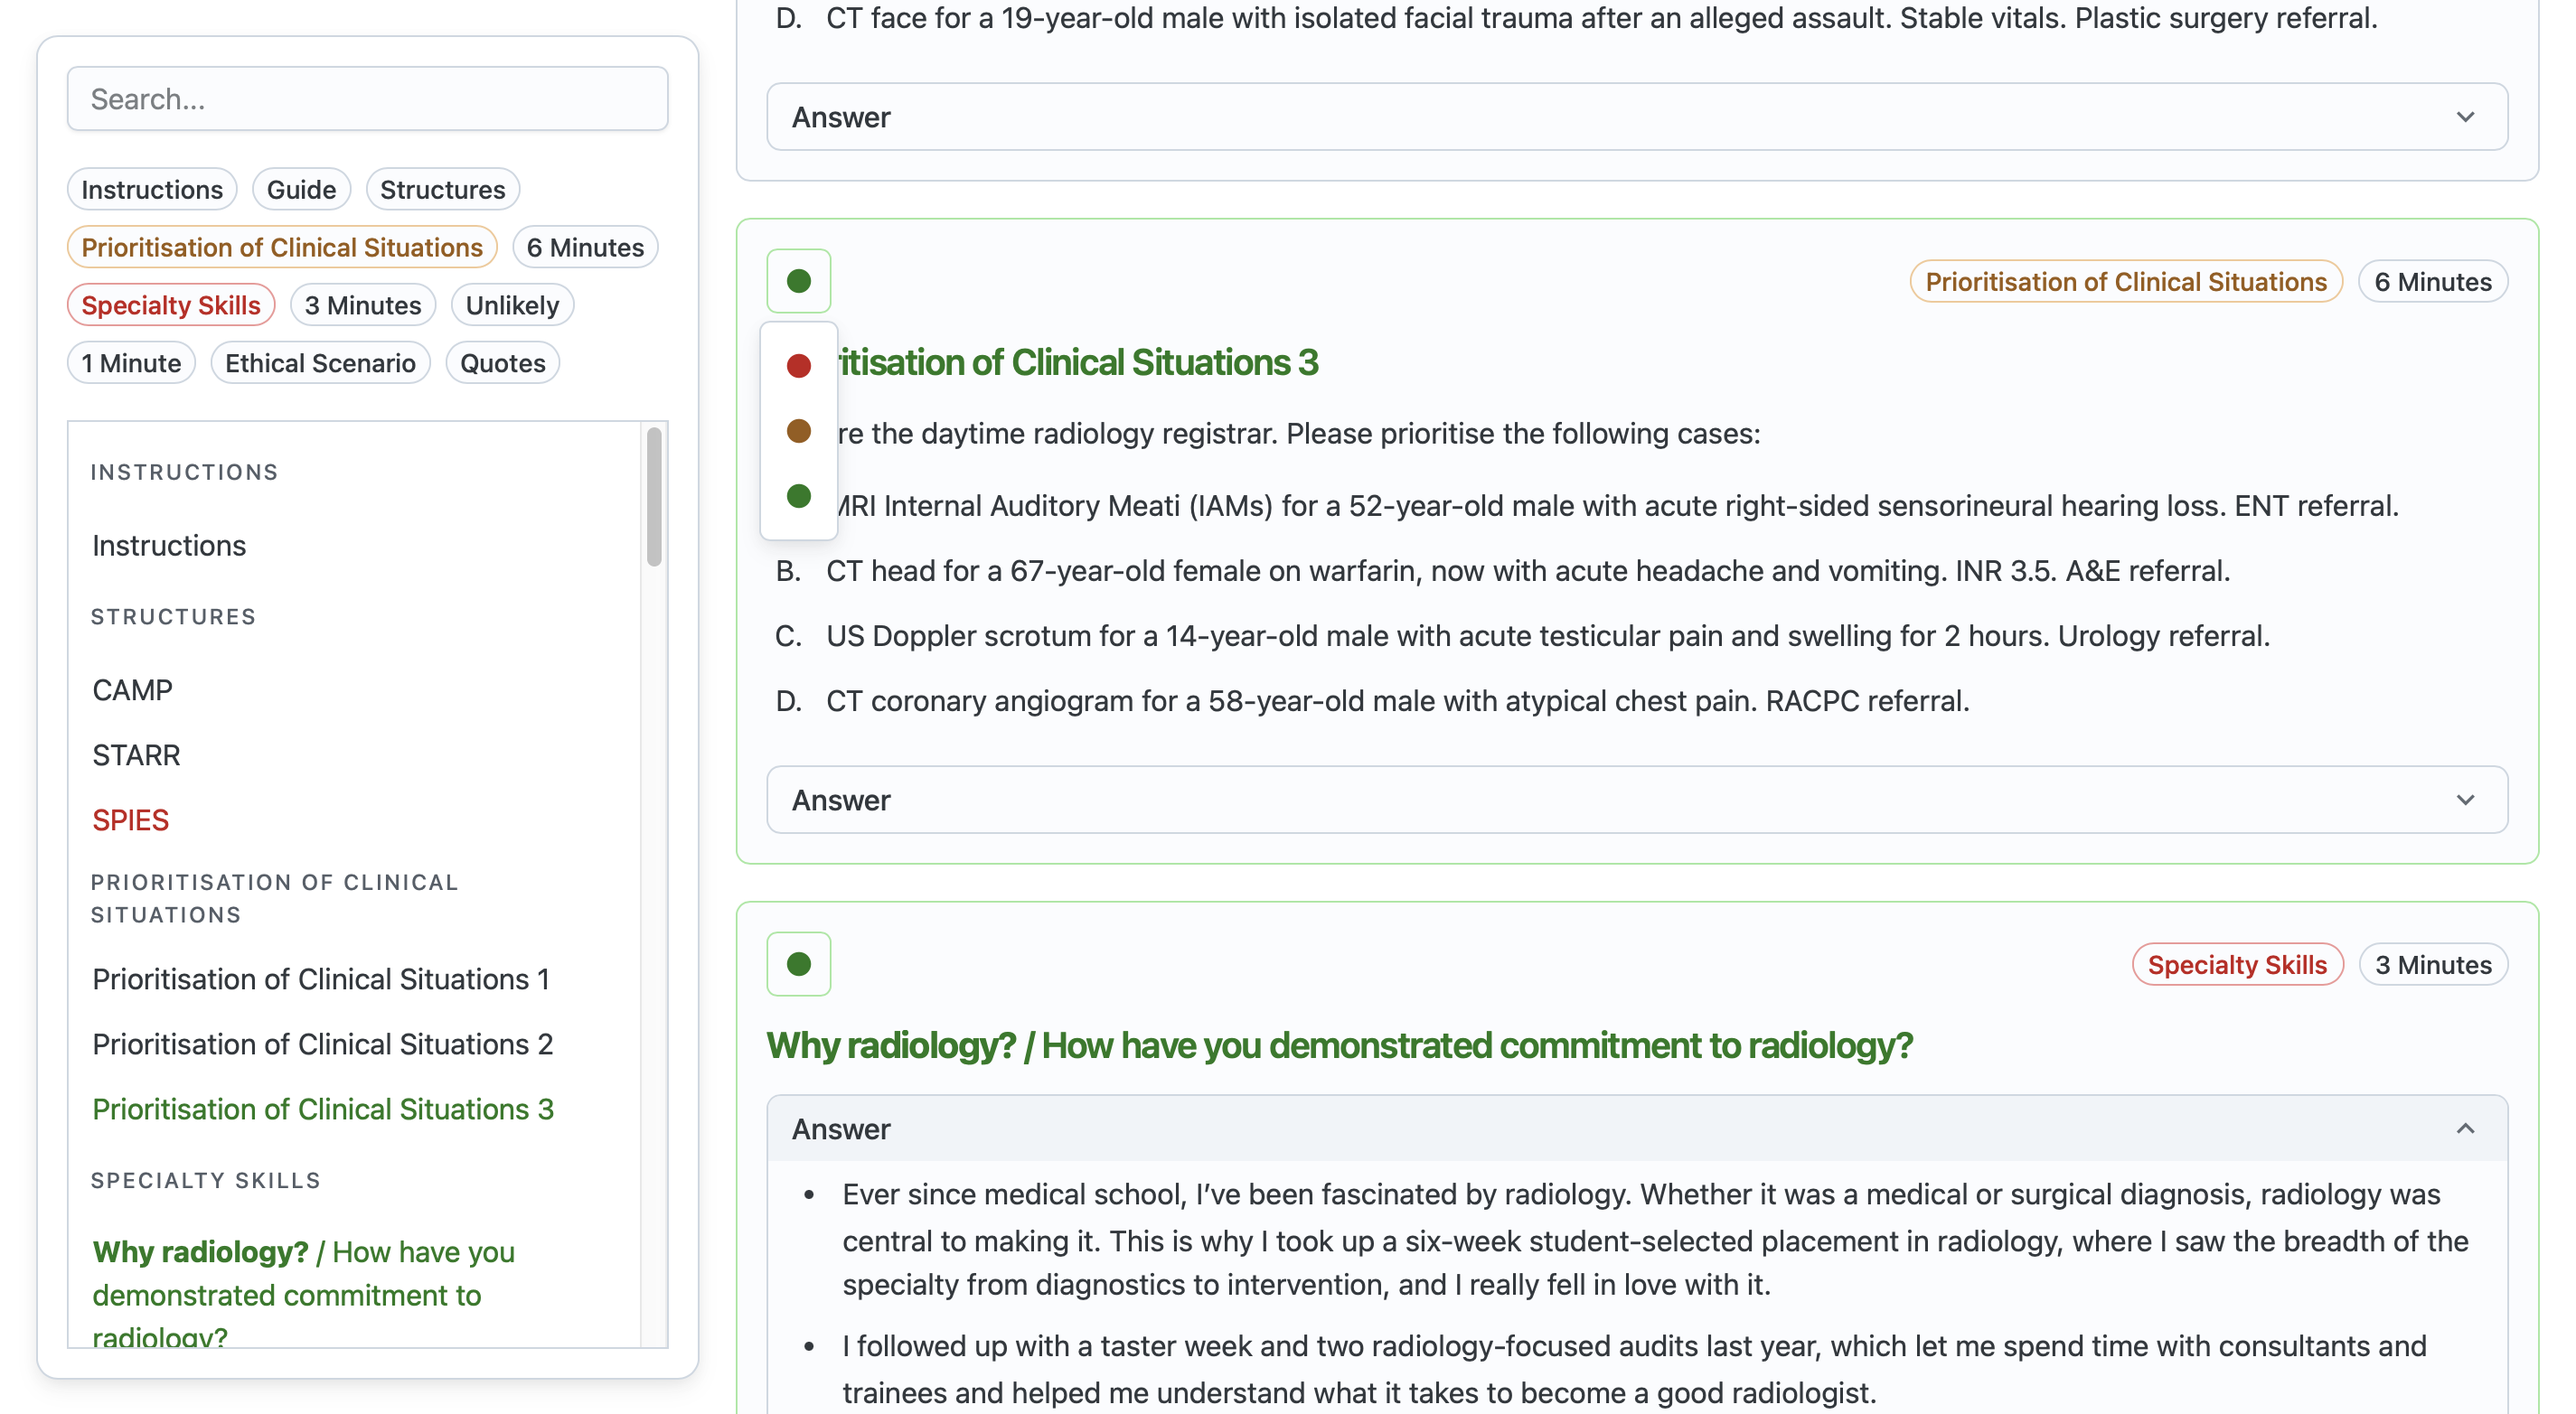
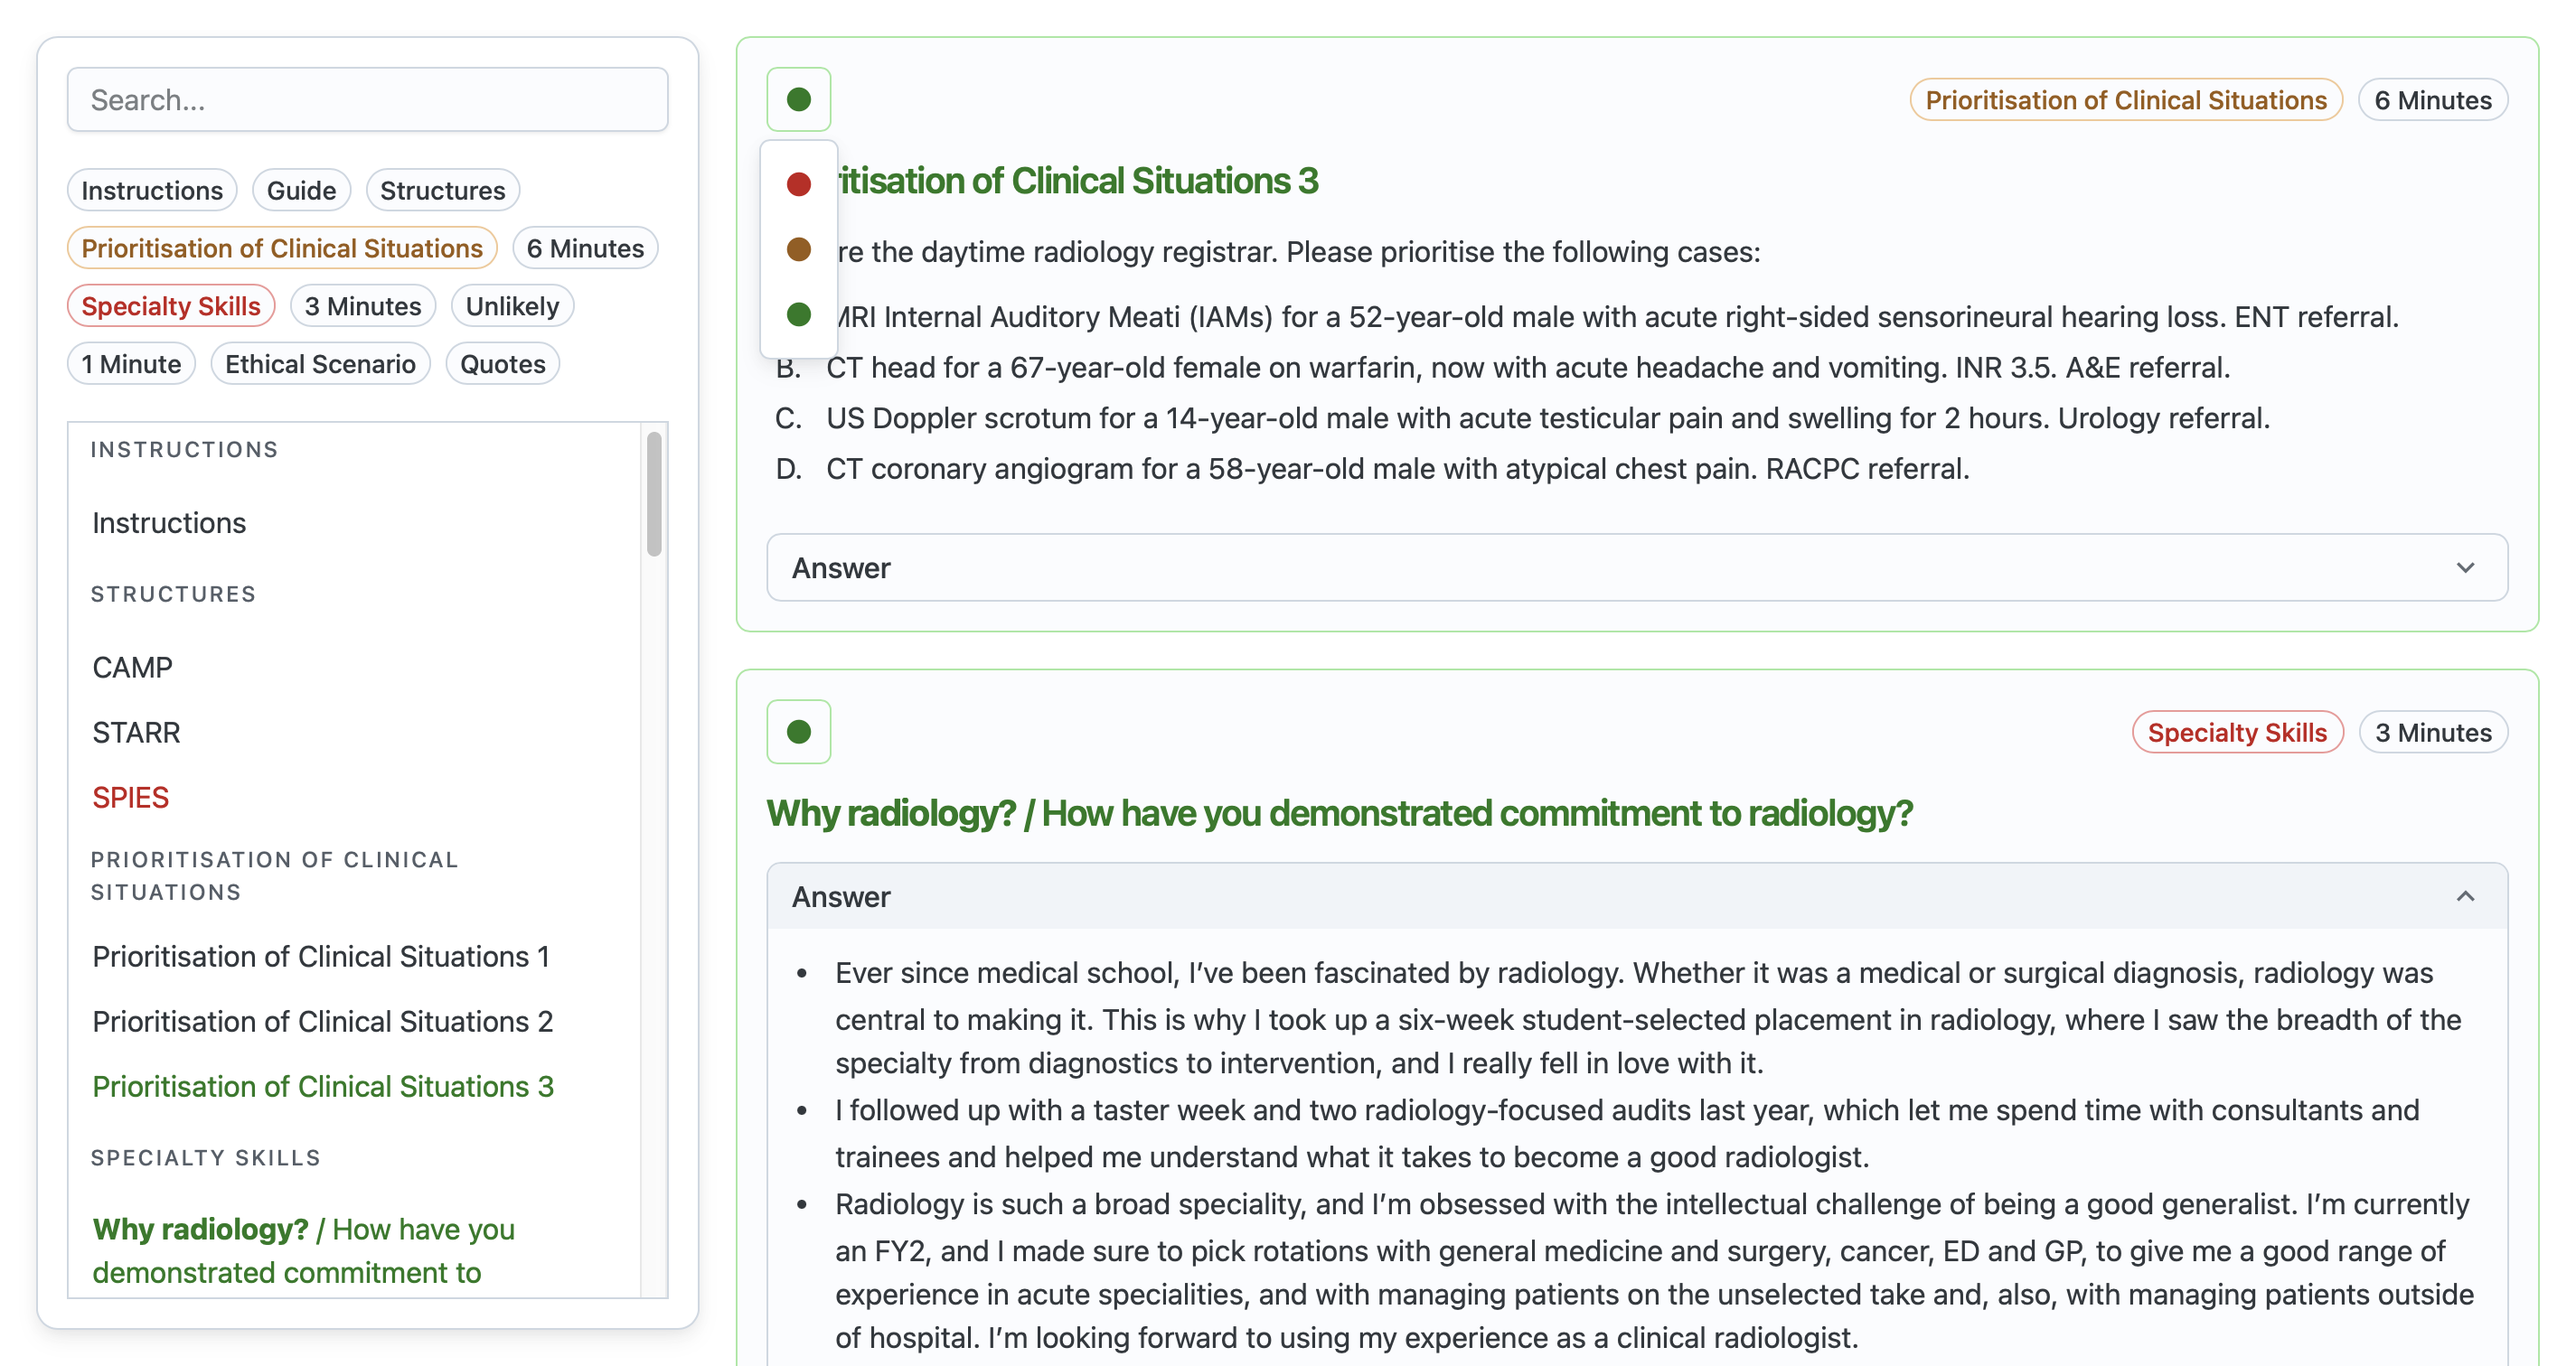
ui fixes

diff --git a/src/pages/Landing.tsx b/src/pages/Landing.tsx
@@ -1,5 +1,5 @@
 import React, { FC, useEffect } from "react";
-import { Button, Typography, Card, Link, List, Dropdown, MenuButton, IconButton, Menu, MenuItem, ListItem, Alert } from '@mui/joy';
+import { Button, Typography, Card, Link, List, Dropdown, MenuButton, IconButton, Menu, MenuItem, ListItem } from '@mui/joy';
 import './Landing.css';
 import { useNavigate } from "react-router-dom";
 import Paths from "../resources/Paths.ts";
@@ -7,7 +7,7 @@ import useDocumentTitle from "../hooks/useDocumentTitle.ts";
 import Strings from "../resources/Strings.ts";
 import Logo from "../components/Logo.tsx";
 import { AuthenticationUI, AuthenticationUIMode, useAuthentication } from "../components/Authentication.tsx";
-import { MdArrowDownward, MdArrowForward, MdMoreVert } from "react-icons/md";
+import { MdArrowDownward, MdArrowForward, MdChecklist, MdCurrencyPound, MdMoreVert, MdQuestionAnswer } from "react-icons/md";
 import Footer from "../components/Footer.tsx";
 import ExampleQuestions from "../components/ExampleQuestions.tsx";
 
@@ -313,20 +313,19 @@ const Landing: FC<LandingProps> = ({ setNav, authenticationUIMode }) => {
             </List>
         </Card>
         <Card className={sections[4]} variant='outlined'>
-            <Typography level='h2' color='success'>{sectionTitles[sections[4]]}</Typography>
-            <Typography>
+            <div>
+                <Typography level='h2' color='success'>{sectionTitles[sections[4]]}</Typography>
                 <Typography level='title-md'>Unlock Your Radiology Interview Success! 🔓</Typography>
-                <br />
-                <Typography>Subscribe now for access to the tools you need to stand out from the competition! 🌟</Typography>
-            </Typography>
-            <img alt='Question Bank Screenshot' src={require('../resources/question-bank.png')} />
-            <List>
-                <ListItem>✅ 50+ Expertly Crafted Answers</ListItem>
-                <ListItem>✅ Prioritisation Questions to Sharpen Your Skills</ListItem>
-                <ListItem>✅ Unbeatable Value: Just £18 for 3 Months! 🎉</ListItem>
-            </List>
-            <Button color='success' sx={{ width: 'fit-content' }} endDecorator={<MdArrowForward />} onClick={() => navigate(Paths.SignUp)}>{authentication.isLoggedIn ? 'Access' : 'Sign Up for'} the Question Bank</Button>
-            {!authentication.isLoggedIn && <Typography>Or <Link onClick={() => navigate(Paths.SignIn)}>{Strings.SignIn}</Link></Typography>}
+                <img alt='Question Bank Screenshot' src={require('../resources/question-bank.png')} />
+                <Typography><MdQuestionAnswer /> 50+ Expertly Crafted Answers</Typography>
+                <Typography><MdChecklist /> Prioritisation Questions to Sharpen Your Skills</Typography>
+                <Typography><MdCurrencyPound /> Unbeatable Value: Just £18 for 3 Months! 🎉</Typography>
+                <Button color='success' sx={{ width: 'fit-content' }} endDecorator={<MdArrowForward />} onClick={() => navigate(Paths.SignUp)}>{authentication.isLoggedIn ? 'Access' : 'Sign Up for'} the Question Bank</Button>
+                {!authentication.isLoggedIn && <Typography>Or <Link onClick={() => navigate(Paths.SignIn)}>{Strings.SignIn}</Link></Typography>}
+            </div>
+            <div>
+                <img alt='Question Bank Screenshot' src={require('../resources/question-bank.png')} />
+            </div>
         </Card>
         <Footer />
         {

diff --git a/src/pages/Landing.css b/src/pages/Landing.css
@@ -76,26 +76,63 @@
 }
 
 .landing>.structure .MuiList-root,
-.landing>.structure .MuiListItem-root,
+.landing>.structure .MuiListItem-root {
+    margin-top: -.5em; /*-.25em*/
+}
+
 .landing>.method .MuiList-root,
 .landing>.method .MuiListItem-root {
     margin-top: -.5em;
 }
 
+@media screen and (min-width: 868px) {
+    .landing>.question-bank {
+        flex-direction: row;
+        align-items: center;
+        gap: 5em;
+    }
+}
+
 .landing>.question-bank img {
-    --img-padding: var(--padding-sm);
-    margin: var(--img-padding) auto;
-    object-fit: contain;
+    background-color: white;
     border-radius: var(--joy-radius-md);
     box-shadow: var(--joy-shadow-md);
-    width: calc(100% - 2 * var(--img-padding));
-    max-width: 868px;
     text-align: center;
     box-sizing: border-box;
+    max-width: 100%;
+}
+
+.landing>.question-bank>div:first-child {
+    display: flex;
+    flex-direction: column;
+    gap: var(--padding);
+}
+
+.landing>.question-bank>div:first-child>img {
+    display: block;
+    max-width: 75%;
+    margin: var(--padding) auto;
 }
 
 @media screen and (min-width: 868px) {
-    .landing>.question-bank img {
-        --img-padding: var(--padding);
+    .landing>.question-bank>div:first-child>img {
+        display: none;
+    }
+}
+
+.landing>.question-bank>div:first-child>p {
+    display: flex;
+    align-items: center;
+    gap: .5em;
+}
+
+.landing>.question-bank>div:last-child {
+    display: none;
+    flex: 1;
+}
+
+@media screen and (min-width: 868px) {
+    .landing>.question-bank>div:last-child {
+        display: block;
     }
 }

diff --git a/src/components/QuestionBankItem.css b/src/components/QuestionBankItem.css
@@ -47,6 +47,20 @@
     gap: .5em;
 }
 
+/* lists */
+.question-bank-item .MuiList-root {
+    margin-top: -.25em;
+}
+
+.question-bank-item .MuiListItem-root {
+    margin-top: -.5em;
+}
+
+.question-bank-item .MuiAccordionDetails-content>.MuiList-root,
+.question-bank-item .MuiAccordionDetails-content>p:first-child {
+    margin-top: .375em;
+}
+
 .question-bank-item .MuiAccordionDetails-content>ol {
     margin-left: .25em;
     margin-bottom: -.25em;
@@ -55,8 +69,4 @@
 .question-bank-item .MuiAccordionDetails-content>ul {
     margin-left: -.25em;
     margin-bottom: -.375em;
-}
-
-.question-bank-item .MuiAccordionDetails-content>p:first-child {
-    margin-top: .375em;
 }
